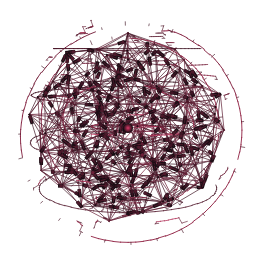
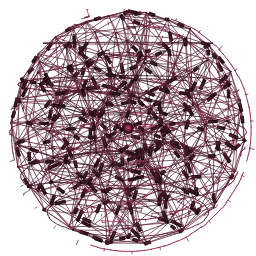
feat(ui): smooth spherical contour and amplify expand-contract breathing pulsation

diff --git a/core/neural_matrix.py b/core/neural_matrix.py
@@ -1,8 +1,8 @@
 """
 Holographic 3D neural core simulating brain synapses, action potentials,
 and cortical telemetry in the signature wine red ('cor vinho') palette.
-Evenly distributed Fibonacci spherical mesh for dense, cohesive connectivity without voids or holes.
-Subdued, opaque synaptic glowing hubs with reduced point density.
+Perfect spherical Fibonacci lattice for rounded outer silhouette with zero holes.
+Amplified organic breathing and voice-reactive expand/contract pulsation.
 """
 import math
 import random
@@ -22,82 +22,83 @@ class HoloNeuralSphere:
         self._pulse_rng = random.Random(2026)
         rng = random.Random(42)
 
-        # ── 1. 3D Neural Nodes Distributed by Fibonacci Sphere (Zero Holes) ──
-        # All 190 nodes maintained for complete 3D structure
+        # ── 1. Perfectly Spherical 3D Fibonacci Distribution (Rounded Edges) ─
         self.nodes = []
 
-        # Outer cortex: 110 nodes
-        n_out = 110
+        # Outer cortex: 120 nodes on a true smooth sphere (rad = 0.96)
+        n_out = 120
         phi = (1.0 + math.sqrt(5.0)) / 2.0
         for i in range(n_out):
             y = 1.0 - (i / float(n_out - 1)) * 2.0
             r_y = math.sqrt(max(0.0, 1.0 - y * y))
             th = 2.0 * math.pi * i / phi
-            rad = rng.uniform(0.82, 0.96)
-            self.nodes.append((rad * r_y * math.cos(th), rad * y * 0.94, rad * r_y * math.sin(th)))
+            rad = 0.96  # Uniform radius = perfectly round spherical silhouette!
+            self.nodes.append((rad * r_y * math.cos(th), rad * y, rad * r_y * math.sin(th)))
 
-        # Mid cortex: 55 nodes
-        n_mid = 55
+        # Mid cortex: 60 nodes (rad = 0.64)
+        n_mid = 60
         for i in range(n_mid):
             y = 1.0 - (i / float(n_mid - 1)) * 2.0
             r_y = math.sqrt(max(0.0, 1.0 - y * y))
             th = 2.0 * math.pi * (i + 0.33) / phi
-            rad = rng.uniform(0.52, 0.72)
-            self.nodes.append((rad * r_y * math.cos(th), rad * y * 0.94, rad * r_y * math.sin(th)))
+            rad = 0.64 + rng.uniform(-0.04, 0.04)
+            self.nodes.append((rad * r_y * math.cos(th), rad * y, rad * r_y * math.sin(th)))
 
-        # Inner core: 25 nodes
-        n_in = 25
+        # Inner core: 28 nodes (rad = 0.33)
+        n_in = 28
         for i in range(n_in):
             y = 1.0 - (i / float(n_in - 1)) * 2.0
             r_y = math.sqrt(max(0.0, 1.0 - y * y))
             th = 2.0 * math.pi * (i + 0.67) / phi
-            rad = rng.uniform(0.24, 0.44)
-            self.nodes.append((rad * r_y * math.cos(th), rad * y * 0.94, rad * r_y * math.sin(th)))
+            rad = 0.33 + rng.uniform(-0.03, 0.03)
+            self.nodes.append((rad * r_y * math.cos(th), rad * y, rad * r_y * math.sin(th)))
 
-        # ── 2. Prominent Synaptic Hubs (Reduced count: only ~45 hubs have visible glowing dots) ──
-        self.glowing_hubs = [i for i in range(len(self.nodes)) if i % 4 == 0 or i in (12, 34, 78, 120, 145, 175)]
+        # ── 2. Prominent Synaptic Hubs (Reduced count: ~40 hubs) ──────────────
+        self.glowing_hubs = [i for i in range(len(self.nodes)) if i % 5 == 0 or i in (14, 38, 72, 110, 140, 170)]
 
-        # ── 3. Full Highly Connected Synaptic Mesh (All connections preserved) ──
+        # ── 3. High-Connectivity Synaptic Mesh (No Holes, Smooth Curvature) ───
         self.edges = []
         linked = set()
         for i, a in enumerate(self.nodes):
             dists = sorted([(sum((x - y) ** 2 for x, y in zip(a, b)), j) for j, b in enumerate(self.nodes) if j != i])
-            # Primary local synaptic connections
+            # Connect local neighbors with strict distance so outer edges stay curved
+            max_d = 0.22 if i < n_out else 0.30
             for dist, j in dists[:6]:
                 pair = tuple(sorted((i, j)))
-                if pair not in linked and dist < 0.32:
+                if pair not in linked and dist < max_d:
                     linked.add(pair)
                     self.edges.append((*pair, rng.random()))
-            # Radial / cross-layer bridges
+            # Radial cross-layer bridges (inward towards core)
             for dist, j in dists[6:11]:
                 pair = tuple(sorted((i, j)))
-                if pair not in linked and 0.08 < dist < 0.48:
-                    if rng.random() > 0.45:
+                if pair not in linked and 0.08 < dist < 0.42:
+                    if rng.random() > 0.40:
                         linked.add(pair)
                         self.edges.append((*pair, rng.random()))
 
-        # ── 4. Cortical Surface Circuit Traces ────────────────────────────────
+        # ── 4. Smooth Rounded Shells & Orbital Arcs ───────────────────────────
+        self.shells = [
+            (0.98, -0.80, 0.0, math.tau),   # Near bottom round rim
+            (0.98,  0.80, 0.0, math.tau),   # Near top round rim
+            (0.97, -0.40, 0.3, 4.8),        # Lower mid band
+            (0.97,  0.40, 1.5, 4.8),        # Upper mid band
+            (0.97,  0.00, 0.0, math.tau),   # Smooth rounded equator
+            (0.76, -0.50, 0.8, 4.2),
+            (0.74,  0.45, 2.0, 4.2),
+        ]
+
+        # ── 5. Gyroscopic Rings ──────────────────────────────────────────────
+        self.gyro_arcs = []
+        for idx, rad in enumerate((0.38, 0.65, 0.88, 1.01)):
+            tilt = 0.25 + idx * 0.55
+            self.gyro_arcs.append((rad, tilt, idx))
+
+        # ── 6. Cortical Surface Circuit Traces ────────────────────────────────
         self.traces = [
             (rng.uniform(-1.25, 1.25), rng.uniform(0, math.tau),
-             rng.uniform(0.10, 0.38), rng.choice((0.75, 0.88, 1.01)), rng.random())
-            for _ in range(80)
+             rng.uniform(0.10, 0.35), rng.choice((0.75, 0.88, 0.97)), rng.random())
+            for _ in range(70)
         ]
-
-        # ── 5. Incomplete Curved Spherical Shells ────────────────────────────
-        self.shells = [
-            (1.02, -0.83, 0.2, 4.2),
-            (0.96, -0.35, 1.3, 4.5),
-            (0.93,  0.12, 0.5, 3.8),
-            (1.02,  0.58, 2.3, 4.1),
-            (0.76, -0.57, 0.8, 4.0),
-            (0.74,  0.42, 2.1, 4.4),
-        ]
-
-        # ── 6. Gyroscopic Arcs ───────────────────────────────────────────────
-        self.gyro_arcs = []
-        for idx, rad in enumerate((0.35, 0.63, 0.86, 1.07)):
-            tilt = 0.25 + idx * 0.57
-            self.gyro_arcs.append((rad, tilt, idx))
 
     @staticmethod
     def _sphere(lat, lon, rad=1.0):
@@ -111,27 +112,44 @@ class HoloNeuralSphere:
         dt = min(0.10, max(0.0, dt))
         self.amp_smooth += (max(0.0, min(1.0, amp)) - self.amp_smooth) * (1.0 - math.exp(-dt * 12))
         thinking = state in ("THINKING", "PROCESSING")
-        target = 0.0 if muted else (0.88 if thinking else (0.38 + self.amp_smooth * 0.62 if speaking else 0.14))
+        target = 0.0 if muted else (0.88 if thinking else (0.40 + self.amp_smooth * 0.60 if speaking else 0.16))
         self.activity += (target - self.activity) * (1.0 - math.exp(-dt * 6))
-        self.clock += dt * (0.70 + 1.10 * self.activity)
+        self.clock += dt * (0.75 + 1.15 * self.activity)
         self.phase += dt * (0.025 if muted else 0.085 + 0.10 * self.activity)
 
-        # Organic breathing pulse
+        # ── Amplified Expand & Contract Breathing Motion ─────────────────────
+        # 1. Deep natural organic breathing wave (amplified sinusoidal breathing)
+        breath_wave = (
+            math.sin(self.clock * 1.8) * 0.065
+            + math.sin(self.clock * 0.9 + 0.5) * 0.035
+        )
+
+        # 2. Stochastic drift
         self._pulse_wait -= dt
         if self._pulse_wait <= 0:
-            self._pulse_wait = self._pulse_rng.uniform(0.38, 1.45)
-            depth = 0.018 + 0.072 * self.activity
-            self._pulse_target = 1.0 + self._pulse_rng.uniform(-1.0, 0.85) * depth
-        wave = math.sin(self.clock * 2.3) * 0.009 + math.sin(self.clock * 3.71 + 0.8) * 0.006
-        target_scale = 1.0 if muted else self._pulse_target + wave + self.amp_smooth * 0.018
-        self.pulse_scale += (target_scale - self.pulse_scale) * (1.0 - math.exp(-dt * 4.8))
-        self.pulse_scale = max(0.88, min(1.08, self.pulse_scale))
+            self._pulse_wait = self._pulse_rng.uniform(0.5, 1.8)
+            depth = 0.035 + 0.085 * self.activity
+            self._pulse_target = 1.0 + self._pulse_rng.uniform(-1.0, 0.90) * depth
+
+        # 3. Audio / Speech dynamic expansion (significant responsive swell)
+        speech_lift = self.amp_smooth * 0.14 if speaking else self.amp_smooth * 0.06
+        think_lift = 0.05 * math.sin(self.clock * 4.5) if thinking else 0.0
+
+        target_scale = (
+            1.0 if muted else (self._pulse_target + breath_wave + speech_lift + think_lift)
+        )
+
+        # Elastic spring response
+        self.pulse_scale += (target_scale - self.pulse_scale) * (1.0 - math.exp(-dt * 5.2))
+        # Amplified scale range: 0.80 (deep contraction) to 1.22 (full expansion)
+        self.pulse_scale = max(0.80, min(1.22, self.pulse_scale))
 
     def paint(self, p: QPainter, cx: float, cy: float, r: float, W: float, H: float,
               main: QColor, acc: QColor, bg: QColor, name: str = "",
               state: str = "IDLE", speaking: bool = False, muted: bool = False):
         t = self.phase
-        r = min(r * self.pulse_scale, min(W, H) * 0.44)
+        # Use full dynamic pulse scale without premature clamping
+        r = r * self.pulse_scale
         activity = 0.0 if muted else self.activity
 
         if muted:
@@ -140,11 +158,11 @@ class HoloNeuralSphere:
             hot   = QColor("#a0aab4")
         else:
             color = main if (main and main.isValid() and main.name() != "#000000") else QColor("#922747")
-            # Subdued, opaque tones matching user request ("brilho das sinapses mais opaco")
+            # Subdued, opaque wine tones
             light = color.lighter(150)    # Soft rose-wine highlight
             hot   = color.lighter(180)    # Subdued wine spark
 
-        # Pre-mix color table for speed
+        # Pre-mix color table
         bg_r, bg_g, bg_b = bg.red(), bg.green(), bg.blue()
         c_r, c_g, c_b = color.red(), color.green(), color.blue()
         l_r, l_g, l_b = light.red(), light.green(), light.blue()
@@ -191,29 +209,29 @@ class HoloNeuralSphere:
             for a, b in zip(pts, pts[1:]):
                 segments.append(((a[1] + b[1]) * 0.5, a[0], b[0], brightness, width, bright))
 
-        # ── 1. Curved Shells ─────────────────────────────────────────────────
+        # ── 1. Smooth Rounded Spherical Shells (Silky High-Res Curvature) ────
         for shell, lat, start, span in self.shells:
-            path([sphere(lat, start + j * span / 48.0, shell) for j in range(49)], 0.44)
+            path([sphere(lat, start + j * span / 64.0, shell) for j in range(65)], 0.46)
 
         # ── 2. Gyro Arcs & Ticks ─────────────────────────────────────────────
-        for index, rad in enumerate((0.35, 0.63, 0.86, 1.07)):
-            tilt = 0.25 + index * 0.57
-            rot_dir = 1 if index % 2 else -1
+        for index, rad in enumerate(self.gyro_arcs):
+            r_gyro, tilt, idx = rad
+            rot_dir = 1 if idx % 2 else -1
             cos_tilt = math.cos(tilt)
             sin_tilt = math.sin(tilt)
 
             for offset in (0.2, 2.7, 4.9):
                 pts = []
-                for j in range(24):
-                    a = offset + j * 0.065 + t * rot_dir
-                    pts.append((rad * math.cos(a), rad * math.sin(a) * sin_tilt, rad * math.sin(a) * cos_tilt))
+                for j in range(28):
+                    a = offset + j * 0.055 + t * rot_dir
+                    pts.append((r_gyro * math.cos(a), r_gyro * math.sin(a) * sin_tilt, r_gyro * math.sin(a) * cos_tilt))
                 path(pts, 0.62, 0.95, True)
 
             for j in range(28):
                 a = j * math.tau / 28.0 + t * rot_dir
                 def at(r_val):
                     return (r_val * math.cos(a), r_val * math.sin(a) * sin_tilt, r_val * math.sin(a) * cos_tilt)
-                path([at(rad), at(rad + (0.018 if j % 4 else 0.036))], 0.45, 0.65)
+                path([at(r_gyro), at(r_gyro + (0.018 if j % 4 else 0.036))], 0.45, 0.65)
 
         # ── 3. Traces ────────────────────────────────────────────────────────
         for lat, lon, length, rad, seed in self.traces:
@@ -272,7 +290,6 @@ class HoloNeuralSphere:
             node = self.nodes[idx]
             point, z = project(*node)
             pulse = (max(0.0, math.sin(self.clock * 3.6 - idx * 1.5))) ** 8 * activity
-            # Subdued opacity: 0.18 base up to 0.55 during pulse
             alpha = (0.18 + pulse * 0.45) * max(0.25, 0.90 - z * 0.25)
             col_node = get_tint(False if pulse < 0.30 else True, alpha)
 

diff --git a/ui.py b/ui.py
@@ -905,7 +905,7 @@ class HudCanvas(QWidget):
                 _acc = qcol(C.PRI)
 
         if self._matrix is not None and self.hud_style in ("matrix", "core"):
-            self._matrix.paint(p, cx, _band_t + _band_h / 2.0, _r * 0.88, W, _band_h,
+            self._matrix.paint(p, cx, _band_t + _band_h / 2.0, _r * 0.82, W, _band_h,
                                main=_main, acc=_acc, bg=qcol(C.BG),
                                name=self._assistant_name, state=self.state,
                                speaking=self.speaking, muted=self.muted)
